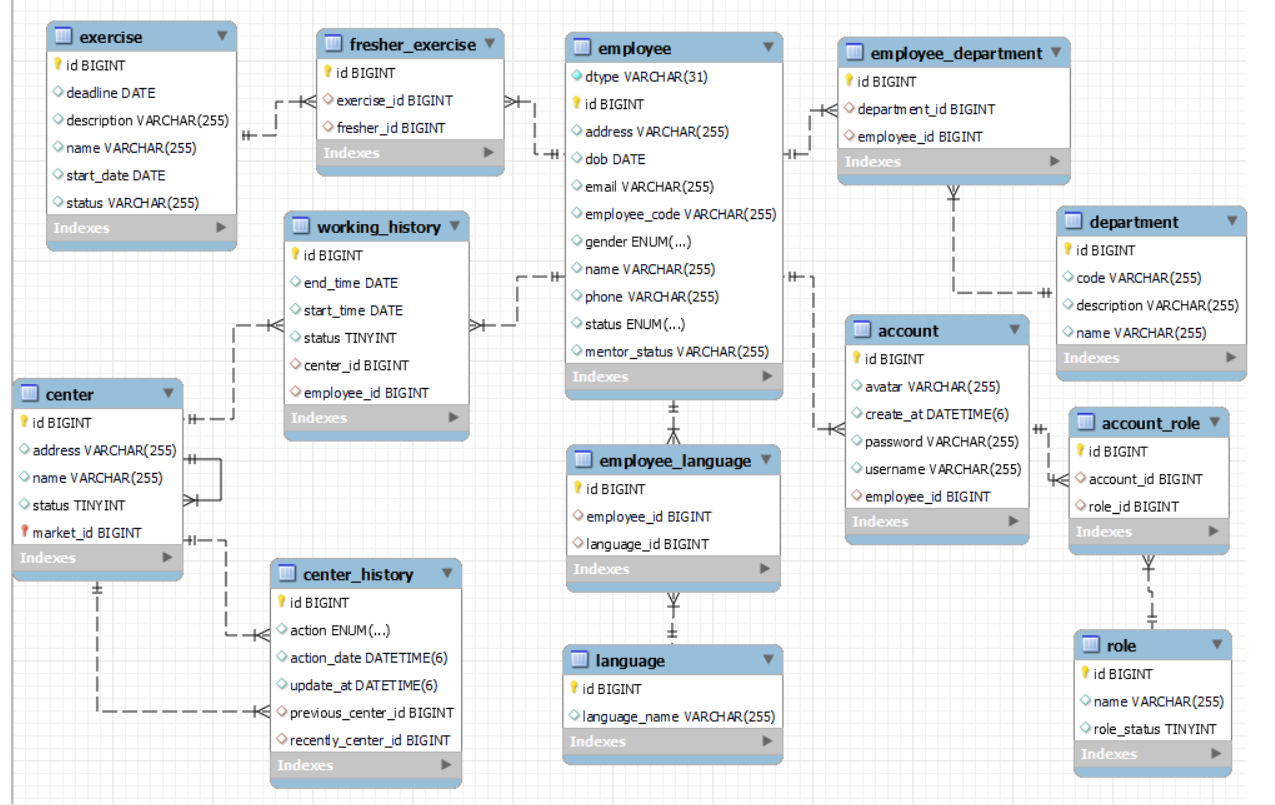
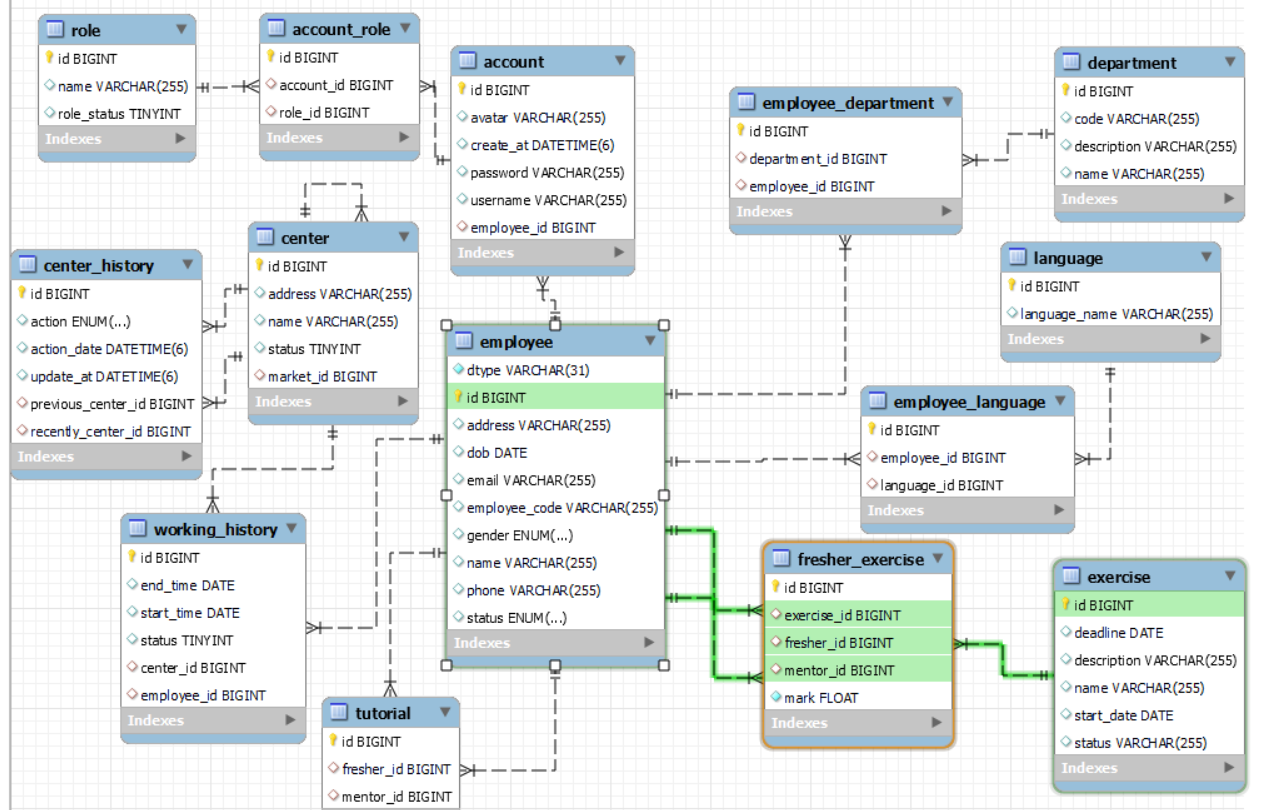
fix database

diff --git a/src/main/java/com/gr/freshermanagement/entity/Tutorial.java b/src/main/java/com/gr/freshermanagement/entity/Tutorial.java
@@ -4,25 +4,19 @@ import jakarta.persistence.*;
 import lombok.Data;
 import lombok.NoArgsConstructor;
 
-@Data
 @Entity
 @NoArgsConstructor
-public class FresherExercise {
+@Data
+public class Tutorial {
     @Id
     @GeneratedValue(strategy = GenerationType.IDENTITY)
     private Long id;
 
     @ManyToOne
-    @JoinColumn(name = "fresher_id")
-    private Fresher fresher;
-
-    @ManyToOne
-    @JoinColumn(name = "exercise_id")
-    private Exercise exercise;
-
-    @ManyToOne
     @JoinColumn(name = "mentor_id")
     private Mentor mentor;
 
-    private float mark;
+    @ManyToOne
+    @JoinColumn(name = "fresher_id")
+    private Fresher fresher;
 }

diff --git a/src/main/java/com/gr/freshermanagement/entity/Mentor.java b/src/main/java/com/gr/freshermanagement/entity/Mentor.java
@@ -10,5 +10,4 @@ import lombok.NoArgsConstructor;
 @EqualsAndHashCode(callSuper = true)
 public class Mentor extends Employee {
 
-    private String mentorStatus;
 }
